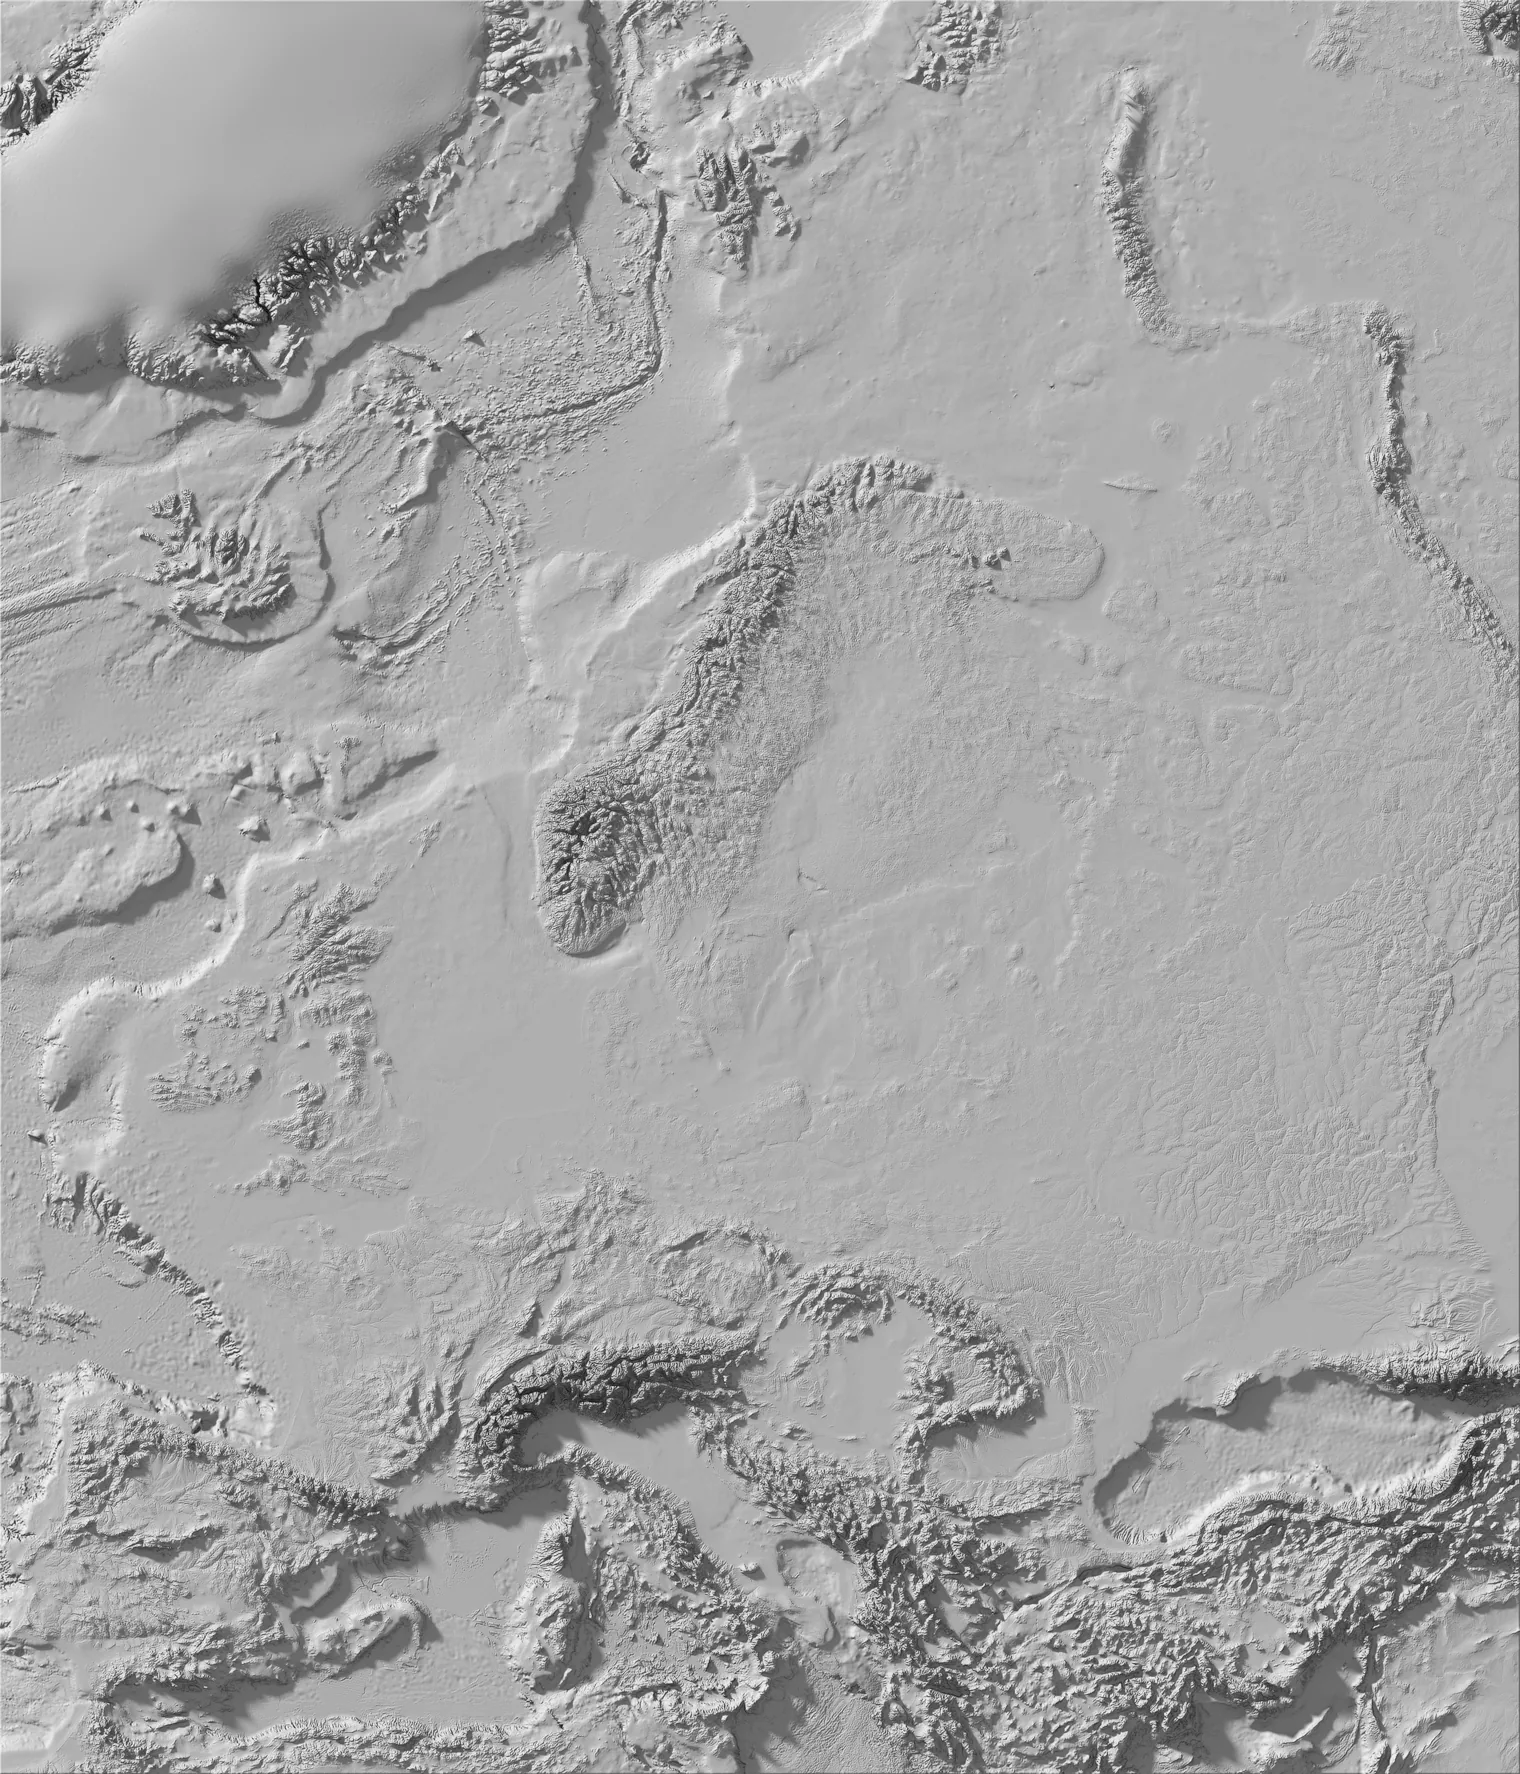
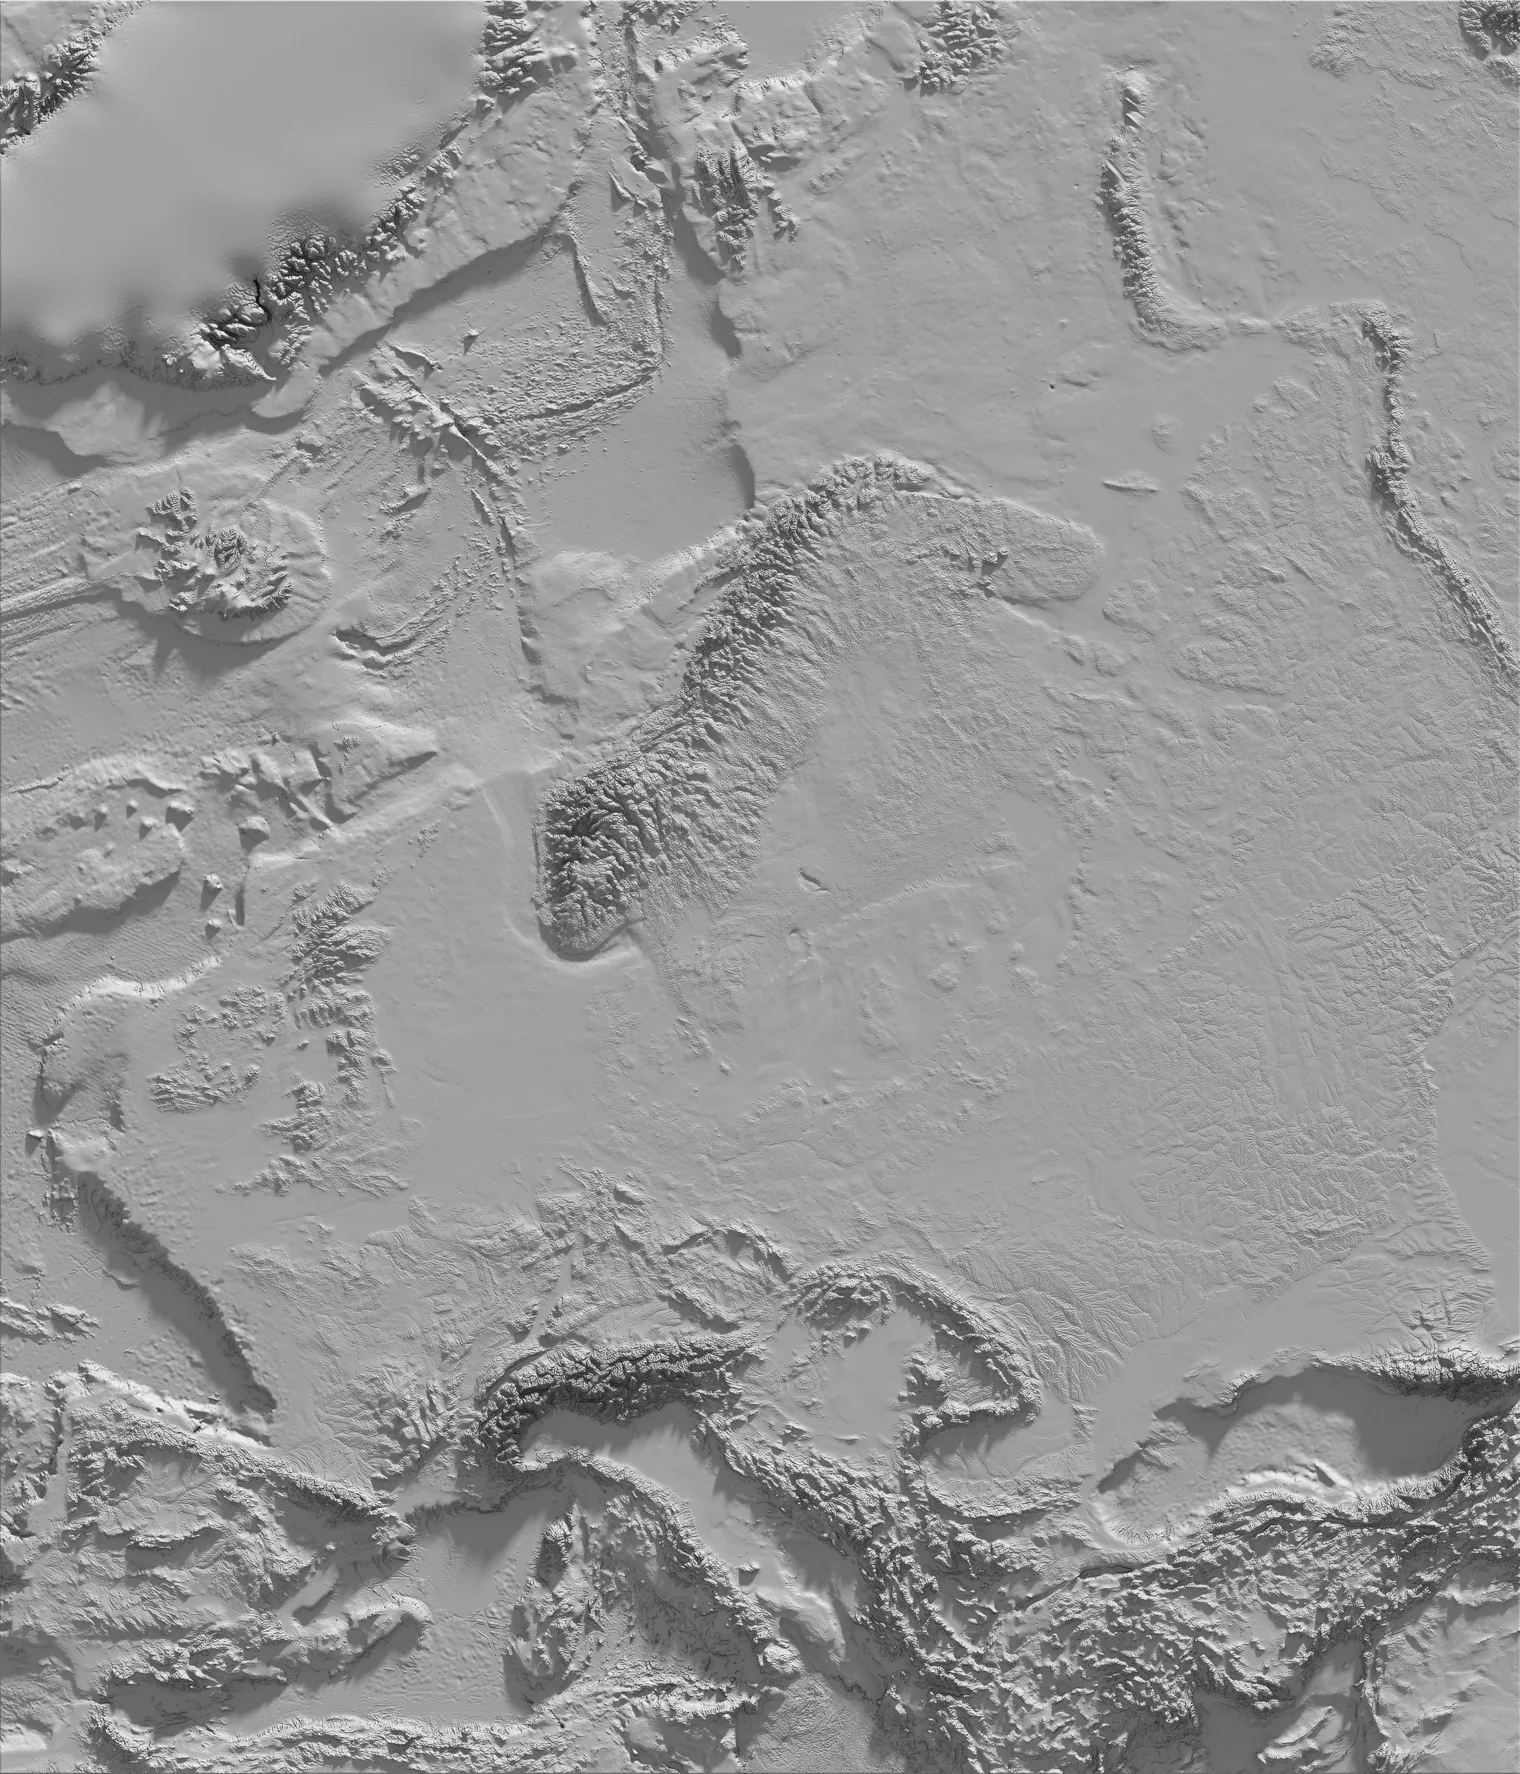
eiszeit-europa: 3D als Vorgabe, plastischeres Eis, Sonne im Gegenlicht
- Die 3D-Ansicht startet beim Laden (wo WebGL 2 geht; #flach fuer flach)
- Eisoberflaeche fuer 3D nach Maechtigkeit geglaettet, Neigung und Mulden
  verstaerkt schattiert, scharfe Kante und dunkler Saum zum eisfreien Land
- Sonne tiefer (15 Grad) und aus Nord-Nordost: im Standardblick Gegenlicht,
  Eis und Meer glaenzen ohne Drehen; Lichtkarte neu gebacken
- Wellenglitzern feiner und ruhiger, Kamera zeigt die ganze Karte

diff --git a/eiszeit-europa/index.html b/eiszeit-europa/index.html
@@ -2729,10 +2729,10 @@ async function dreiStarten() {
   const szene = new THREE.Scene();
   const kam = new THREE.PerspectiveCamera(35, 1, 0.01, 50);
   const W3 = GW * D.g.s / 1000, H3 = GH * D.g.s / 1000;   // Tausend Kilometer
-  kam.position.set(0, -H3 * 0.95, H3 * 0.62);
+  kam.position.set(0, -H3 * 1.28, H3 * 0.95);
   kam.up.set(0, 0, 1);
   const steuer = new OrbitControls(kam, leinwand);
-  steuer.target.set(0, H3 * 0.04, 0);
+  steuer.target.set(0, H3 * 0.02, 0);
   steuer.enableDamping = true;
   steuer.maxPolarAngle = Math.PI * 0.47;
   steuer.minDistance = 0.4; steuer.maxDistance = 12;
@@ -2741,7 +2741,10 @@ async function dreiStarten() {
   licht.colorSpace = THREE.NoColorSpace;
   licht.anisotropy = r.capabilities.getMaxAnisotropy();
 
-  const sonne = new THREE.Vector3(-0.70, 0.62, 0.36).normalize();   // zur Sonne hin, Nordwest
+  // Zur Sonne hin: Nord-Nordost, 15 Grad hoch. Im Standardblick nach Norden
+  // steht sie damit im Gegenlicht, und Eis und Meer glaenzen ohne Drehen.
+  // Muss zur gebackenen Lichtkarte passen (licht_backen.py, LICHT_SONNE).
+  const sonne = new THREE.Vector3(0.34, 0.94, 0.27).normalize();
   const gemein = {
     uHoehe: { value: null }, uFarbe: { value: null }, uLicht: { value: licht },
     uTexel: { value: new THREE.Vector2(1, 1) }, uGroesse: { value: new THREE.Vector2(W3, H3) },
@@ -2790,24 +2793,34 @@ async function dreiStarten() {
       '  vec4 f = farbeBei(vUv);',
       '  if (f.a < 0.2) discard;',
       '  float h = hoeheBei(vUv);',
-      '  float eis = clamp((f.a - 0.5) * 2.0, 0.0, 1.0);',
+      // Eisrand scharf: die Maske ist bilinear gefiltert, geschnitten wird sie
+      // an einer schmalen Schwelle statt ueber die ganze Rampe gemischt.
+      '  float eis = smoothstep(0.54, 0.60, f.a);',
       '  vec3 V = normalize(cameraPosition - vWelt);',
       '  vec3 N = normaleBei(vUv);',
       '  vec3 alb = pow(f.rgb, vec3(2.2));',
       // Gelaende: gebackenes Licht aus Blender (Sonne + Himmel + Schatten + Detail)
-      '  float lb = texture2D(uLicht, vUv).r; lb = pow(lb, 2.2) * 2.3;',
+      '  float lb = texture2D(uLicht, vUv).r; lb = pow(lb, 2.2) * 2.7;',
       '  vec3 fels = alb * lb * vec3(1.0, 0.97, 0.93);',
-      // Eis: live, mit Glanz
+      // Eis: live. Fuer die Schattierung wird die Neigung verstaerkt (die Kuppen
+      // sind auch ueberhoeht nur wenige Grad steil), dazu eine Mulde aus dem
+      // Vergleich mit der Umgebung: das macht flache Eisflaechen plastisch.
+      '  vec3 Ne = normalize(vec3(N.xy * 3.2, N.z));',
+      '  vec2 r1 = uTexel * 6.0, r2 = uTexel * 18.0;',
+      '  float umg = 0.125 * (hoeheBei(vUv + vec2(r1.x, 0.0)) + hoeheBei(vUv - vec2(r1.x, 0.0)) + hoeheBei(vUv + vec2(0.0, r1.y)) + hoeheBei(vUv - vec2(0.0, r1.y))',
+      '            + hoeheBei(vUv + vec2(r2.x, 0.0)) + hoeheBei(vUv - vec2(r2.x, 0.0)) + hoeheBei(vUv + vec2(0.0, r2.y)) + hoeheBei(vUv - vec2(0.0, r2.y)));',
+      '  float mulde = clamp(1.0 - (umg - h) / 260.0, 0.55, 1.12);',
       '  float t = clamp(h / 2500.0, 0.0, 1.0);',
-      '  vec3 eisF = mix(vec3(0.94, 0.95, 0.95), vec3(0.40, 0.64, 0.92), t);',
-      '  float nl = max(dot(N, uSonne), 0.0);',
-      '  vec3 R = reflect(-V, N);',
-      '  float fr = 0.04 + 0.96 * pow(1.0 - max(dot(N, V), 0.0), 5.0);',
-      // Streulicht gedaempft (sonst frisst die Tonkurve die Kuppenform), dafuer
-      // ein kraeftiger, enger Glanz und die Himmelsspiegelung nach Fresnel.
-      '  float amb = 0.30 + 0.12 * N.z;',
-      '  vec3 eisC = eisF * (nl * 1.55 * vec3(1.0, 0.96, 0.9) + amb * vec3(0.55, 0.68, 0.95))',
-      '            + ggx(N, uSonne, V, 0.11) * vec3(1.0, 0.95, 0.85) * 3.2 + himmel(R) * fr * 0.75;',
+      '  vec3 eisF = mix(vec3(0.92, 0.94, 0.95), vec3(0.40, 0.64, 0.92), t);',
+      '  float nl = max(dot(Ne, uSonne), 0.0);',
+      '  vec3 R = reflect(-V, Ne);',
+      '  float fr = 0.04 + 0.96 * pow(1.0 - max(dot(Ne, V), 0.0), 5.0);',
+      '  float amb = (0.26 + 0.14 * Ne.z) * mulde;',
+      '  vec3 eisC = eisF * (nl * 2.1 * vec3(1.0, 0.95, 0.88) * mulde + amb * vec3(0.50, 0.64, 0.95))',
+      '            + ggx(Ne, uSonne, V, 0.10) * vec3(1.0, 0.94, 0.84) * 3.4 + himmel(R) * fr * 0.7;',
+      // Ein schmaler dunkler Saum am Eisrand: die Kante liest sich als Stufe.
+      '  float saum = smoothstep(0.54, 0.62, f.a) - smoothstep(0.62, 0.74, f.a);',
+      '  eisC *= 1.0 - 0.35 * saum;',
       '  vec3 c = mix(fels, eisC, eis);',
       '  gl_FragColor = vec4(c, 1.0);',
       '  #include <tonemapping_fragment>',
@@ -2839,12 +2852,12 @@ async function dreiStarten() {
       '  float tiefe = -h;',
       '  vec3 V = normalize(cameraPosition - vWelt);',
       // feine Wellen fuer das Glitzern: zwei Oktaven, langsam bewegt
-      '  vec2 q = vUv * vec2(uGroesse.x, uGroesse.y) * 420.0;',
+      '  vec2 q = vUv * vec2(uGroesse.x, uGroesse.y) * 150.0;',
       '  float e = 0.0008;',
       '  float a = welle(q + uZeit * 0.6) + 0.5 * welle(q * 2.3 - uZeit * 0.9);',
       '  float ax = welle(q + vec2(e * 1e3, 0.0) + uZeit * 0.6) + 0.5 * welle((q + vec2(e * 1e3, 0.0)) * 2.3 - uZeit * 0.9);',
       '  float ay = welle(q + vec2(0.0, e * 1e3) + uZeit * 0.6) + 0.5 * welle((q + vec2(0.0, e * 1e3)) * 2.3 - uZeit * 0.9);',
-      '  vec3 N = normalize(vec3((a - ax) * 0.10, (a - ay) * 0.10, 1.0));',
+      '  vec3 N = normalize(vec3((a - ax) * 0.035, (a - ay) * 0.035, 1.0));',
       '  vec3 R = reflect(-V, N);',
       '  float fr = 0.02 + 0.98 * pow(1.0 - max(dot(N, V), 0.0), 5.0);',
       '  vec3 flach = vec3(0.10, 0.62, 0.62), tief = vec3(0.01, 0.10, 0.34);',
@@ -2896,10 +2909,24 @@ function dreiFelder() {
     gemein.uTexel.value.set(1 / rW, 1 / rH);
   }
   if (BIOM) biomRechnen();
+  /* Eisoberflaeche glaetten. Die Karte rechnet sie als heutiges DEM plus
+     Differenzfeld, und darin stehen Fjorde und Gipfel, die unter einem
+     Eisschild nicht an der Oberflaeche liegen. Flach gezeichnet faellt das
+     kaum auf; mit Licht und Glanz sah das Eis zerknittert aus. Geglaettet wird
+     nach Maechtigkeit, und nie unter den Fels: der ragt als Nunatak heraus. */
+  if (!drei.gA || drei.gA.length !== n) { drei.gA = new Float32Array(n); drei.gB = new Float32Array(n); }
+  const gA = drei.gA, gB = drei.gB, rg = Math.max(2, Math.round(rW / 110));
+  kastenX(flaeche, gA, rg, rW, rH); kastenY(gA, gB, rg, rW, rH);
+  kastenX(gB, gA, rg, rW, rH); kastenY(gA, gB, rg, rW, rH);
   const hb = drei.hBuf, fb = drei.fBuf;
   for (let i = 0; i < n; i++) {
     const j = i << 2;
-    hb[i] = THREE.DataUtils.toHalfFloat(maskeR[i] ? flaeche[i] : -4000);
+    let hh = flaeche[i];
+    if (eisD[i] >= EISSCHWELLE) {
+      const w = Math.min(1, eisD[i] / 250);
+      hh = Math.max(rock[i], hh + w * (gB[i] - hh));
+    }
+    hb[i] = THREE.DataUtils.toHalfFloat(maskeR[i] ? hh : -4000);
     if (!maskeR[i]) { fb[j + 3] = 0; continue; }
     let r, g, b;
     if (BIOM && rock[i] >= 0) { r = biomF[3 * i]; g = biomF[3 * i + 1]; b = biomF[3 * i + 2]; }
@@ -3592,6 +3619,10 @@ setzeZeit(0);
 masse(); marken(); legende(); notizen(); zeichne();
 requestAnimationFrame(schlag);
 setTimeout(starte, 700);
+/* Die 3D-Ansicht ist die Vorgabe, wo WebGL 2 geht; sonst bleibt die flache
+   Karte stehen, und der Knopf traegt den Grund im Titel. Mit #flach in der
+   Adresse startet die Seite flach. */
+if (window.WebGL2RenderingContext && !/flach/.test(location.hash)) dreiSchalten(true);
 
 </script>
 </body></html>

diff --git a/eiszeit-europa/build/licht_backen.py b/eiszeit-europa/build/licht_backen.py
@@ -23,9 +23,13 @@ sc = bpy.data.scenes["Map"]
 sc.frame_set(C.FRAMES)                       # heute
 
 # Nur Gelaende und Licht
+from mathutils import Vector
+ZUR_SONNE = Vector([float(v) for v in os.environ.get("LICHT_SONNE", "-0.70,0.62,0.36").split(",")]).normalized()
 for ob in sc.objects:
     if ob.type == "MESH" and ob.name != "Europa":
         ob.hide_render = True
+    if ob.name == "Sonne":
+        ob.rotation_euler = (-ZUR_SONNE).to_track_quat("-Z", "Y").to_euler()
     if ob.type == "LIGHT":
         ob.hide_render = ob.name not in ("Sonne", "Himmel_oben")
         if ob.name == "Sonne":

diff --git a/eiszeit-europa/build/DATEN.md b/eiszeit-europa/build/DATEN.md
@@ -101,12 +101,18 @@ die Seite selbst bleibt in sich geschlossen und wird dadurch nicht schwerer.
 Der Code steht in `drei.mjs`.
 
 `../drei/licht.webp` ist eine in Blender (Cycles) gebackene Lichtkarte des
-heutigen Geländes: Sonne aus Nordwest, Himmelslicht, Schlagschatten, dazu das
+heutigen Geländes: Sonne aus Nord-Nordost, 15° hoch (`LICHT_SONNE=0.34,0.94,0.27`
+— im Standardblick nach Norden Gegenlicht, damit Eis und Meer glänzen), Himmelslicht, Schlagschatten, dazu das
 unverglättete 1,5-km-Relief als Bump — 3 040 × 3 548 gebacken, auf 1 520 × 1 774
 verkleinert. Gebacken wurde im Filmprojekt, aus dem diese Nachträge stammen;
 das Skript liegt als `licht_backen.py` zum Nachlesen hier (es braucht dessen
 Szene). Überhöhung dort und in `drei.mjs`: 24-fach, Tiefsee logarithmisch
 gestaucht — beides muss gleich sein, sonst passen Schatten und Relief nicht.
+
+Die 3D-Ansicht ist die Vorgabe beim Laden (wo WebGL 2 geht; `#flach` in der
+Adresse startet flach). Die Eisoberfläche wird für 3D nach Mächtigkeit
+geglättet — im Feld stehen sonst Fjorde und Gipfel des heutigen DEM, die unter
+einem Eisschild nicht an der Oberfläche liegen —, nie unter den Fels.
 
 Gelände: Farbe der Karte (oder Biome) × gebackenes Licht. Eis: live, mit Glanz
 (GGX) und Fresnel-Spiegelung des Himmels. Meer: eigene Fläche mit Tiefenfarbe,
